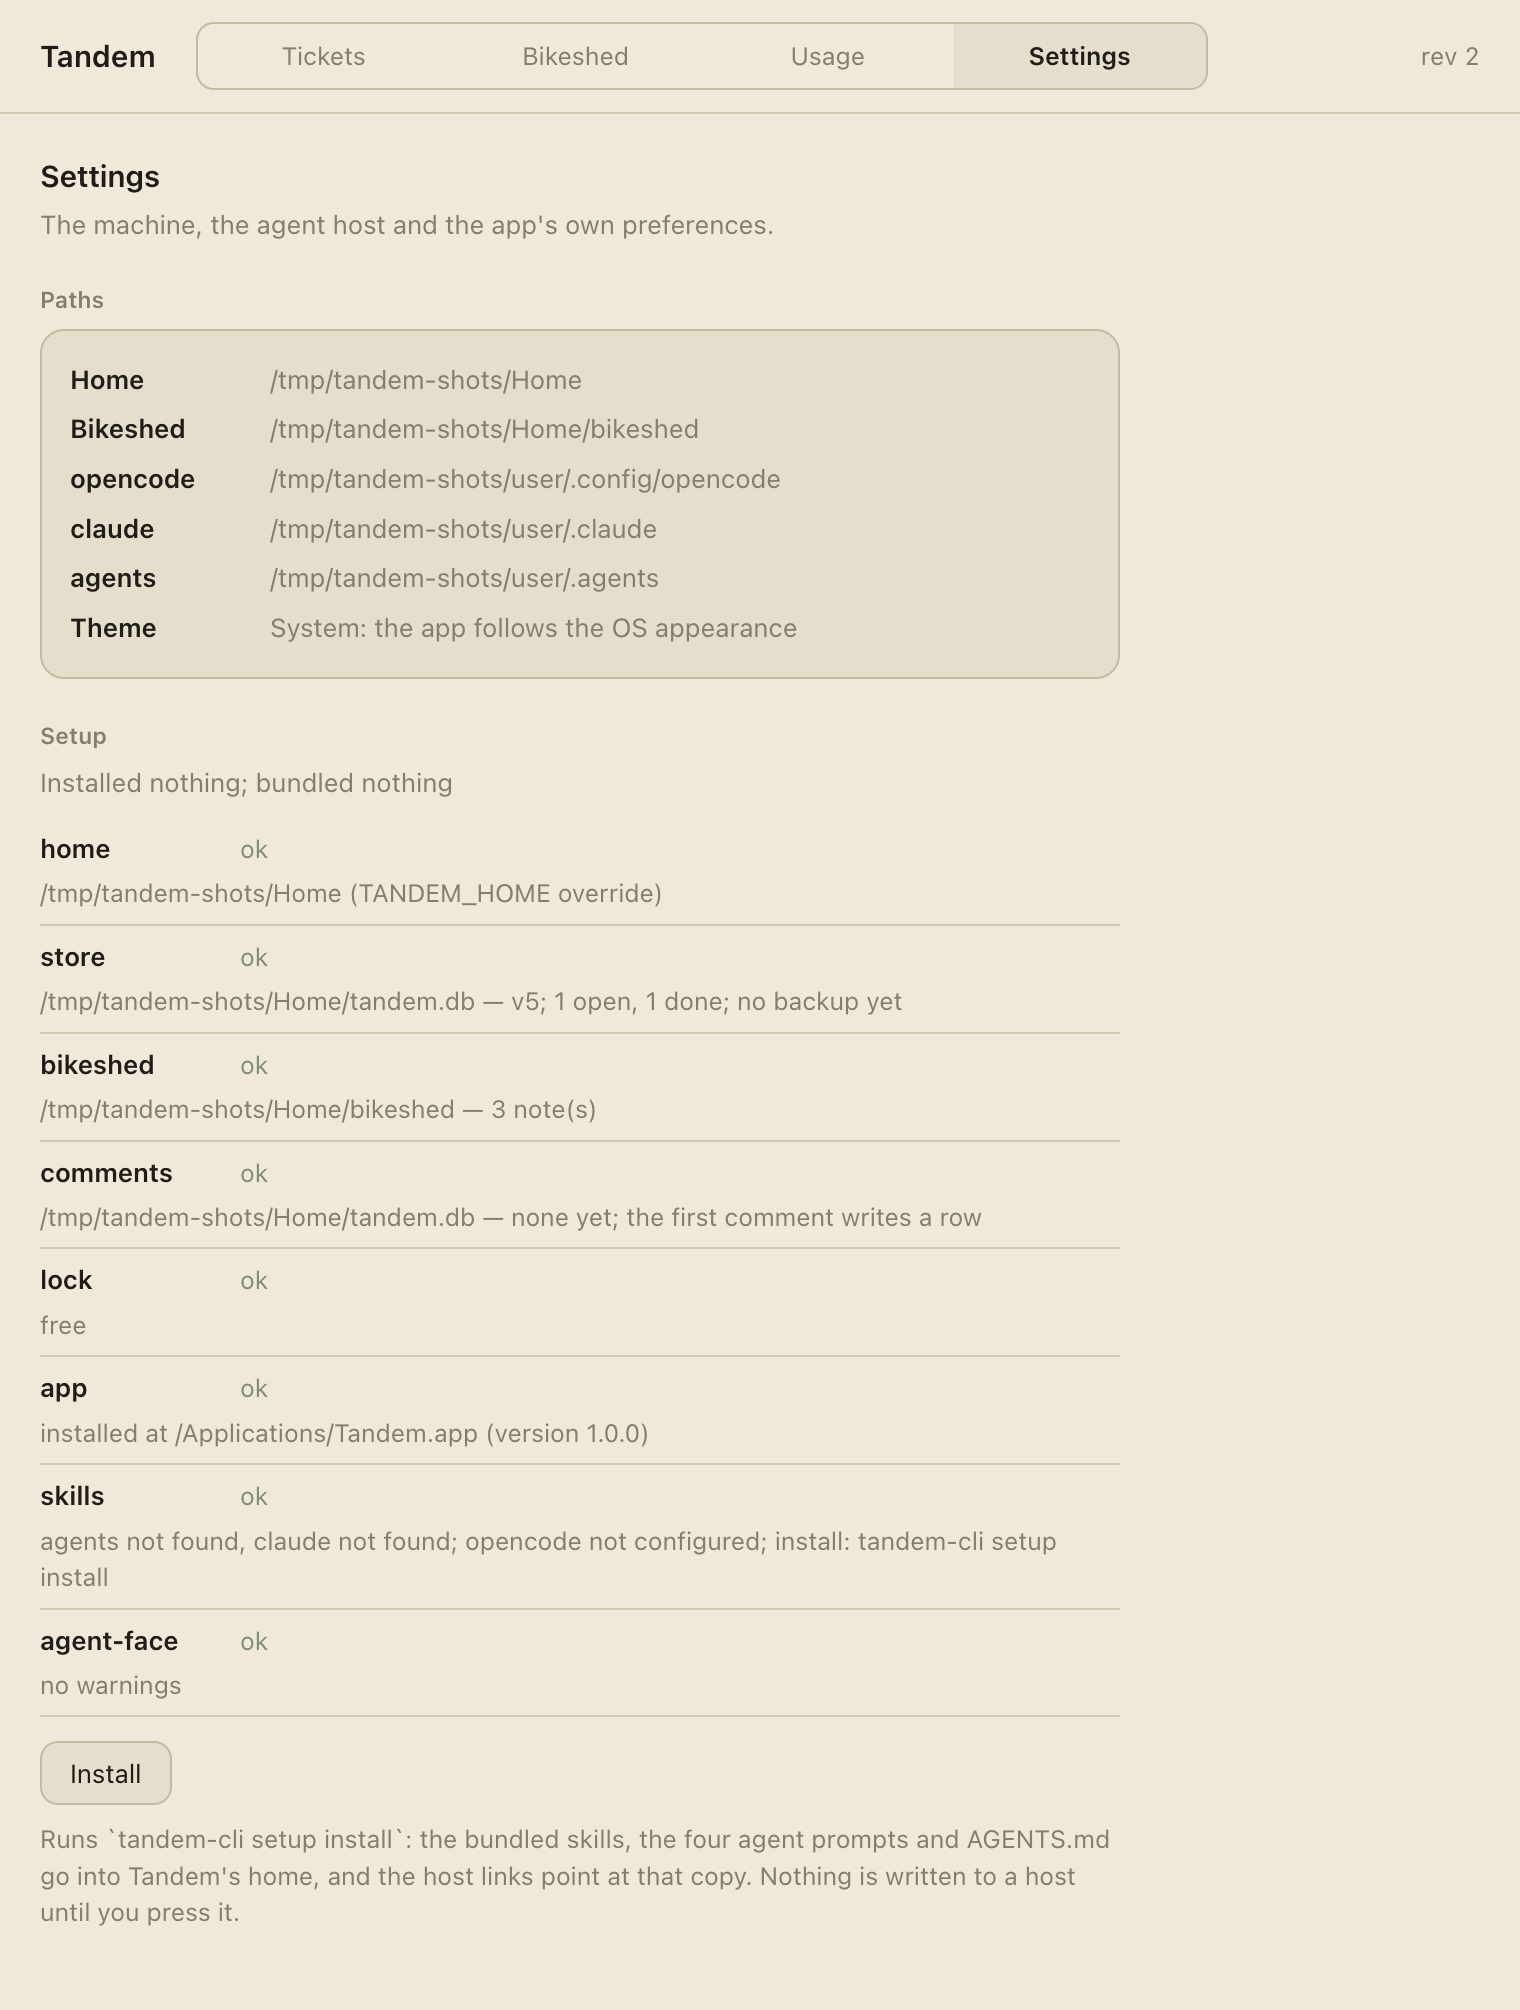
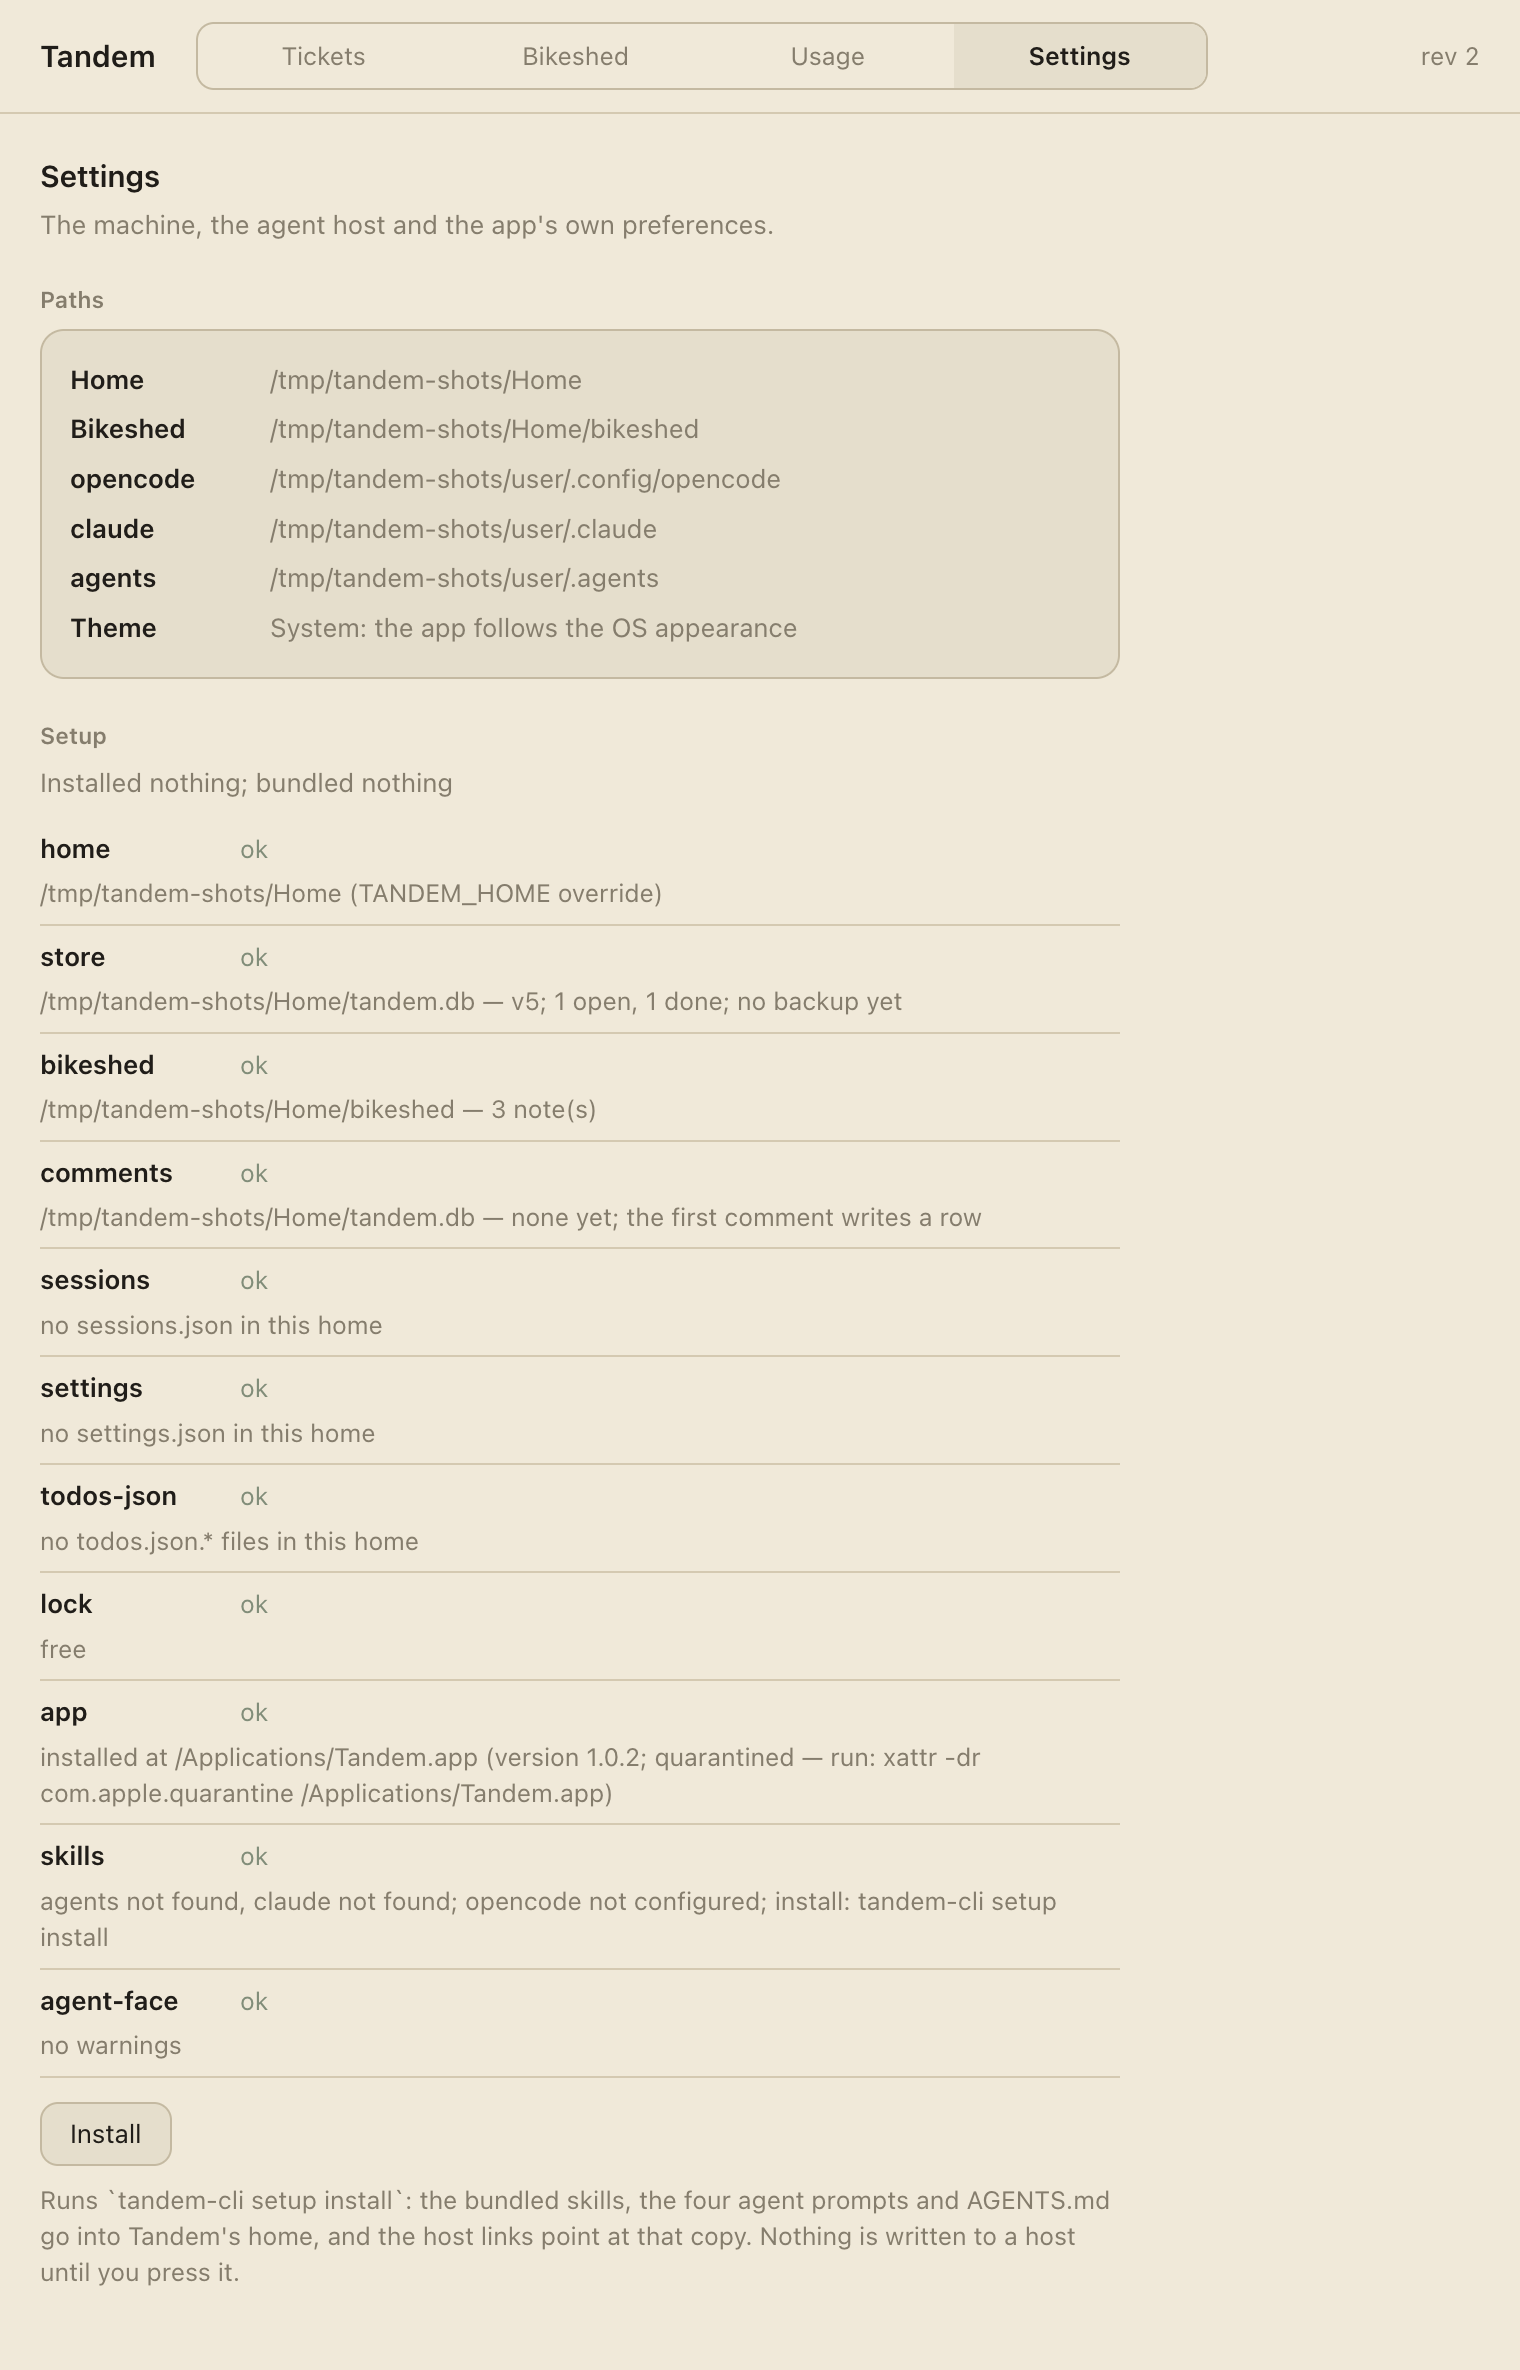
TAN-243: the CLI home suite and the settings picture follow the eleven rows
rust/cli/tests/home.rs pins the report's row count too, and the Settings
screenshot suite asserts it and shoots the face: eleven rows, three of
them the new leftovers in their clean state.

diff --git a/app/tests/shots/settings.shots.ts b/app/tests/shots/settings.shots.ts
@@ -7,7 +7,7 @@ import { computed, token } from '../../shots/tokens'
 /**
  * The Settings face a human reads: the machine's paths (the seeded home and
  * the seeded user home's three hosts), the one theme rule, and the setup
- * report's eight checks with their state.
+ * report's eleven checks with their state.
  *
  * The paths are the seed's own, at the one fixed scratch root, so the picture
  * is the same in any checkout. What the rule pins is that they are the seed's
@@ -41,7 +41,7 @@ test('the settings face, over the seeded homes', async ({ app, window }) => {
   // The facts panel is a token card: its corner is --radius-card.
   expect(await computed(window, '.settings__facts', 'border-radius')).toBe(token('radius-card'))
 
-  await expect(window.locator('.settings__checks').first().locator('.settings__check')).toHaveCount(8)
+  await expect(window.locator('.settings__checks').first().locator('.settings__check')).toHaveCount(11)
   await expect(window.locator('.settings__action')).toHaveText(/^(Install|Repair)$/)
 
   await capture(app, window, scene('settings'))

diff --git a/rust/cli/tests/home.rs b/rust/cli/tests/home.rs
@@ -109,15 +109,15 @@ fn report(output: &Output) -> Value {
     value
 }
 
-/// The `home` row, shaped as ADR 0014 pins it, inside the eight-row report.
+/// The `home` row, shaped as ADR 0014 pins it, inside the eleven-row report.
 fn home_row(value: &Value) -> &Value {
     let rows = value["checks"]
         .as_array()
         .expect("`checks` is an array of rows");
     assert_eq!(
         rows.len(),
-        8,
-        "the report carries the eight checks: {value}"
+        11,
+        "the report carries the eleven checks: {value}"
     );
     let row = rows
         .iter()
